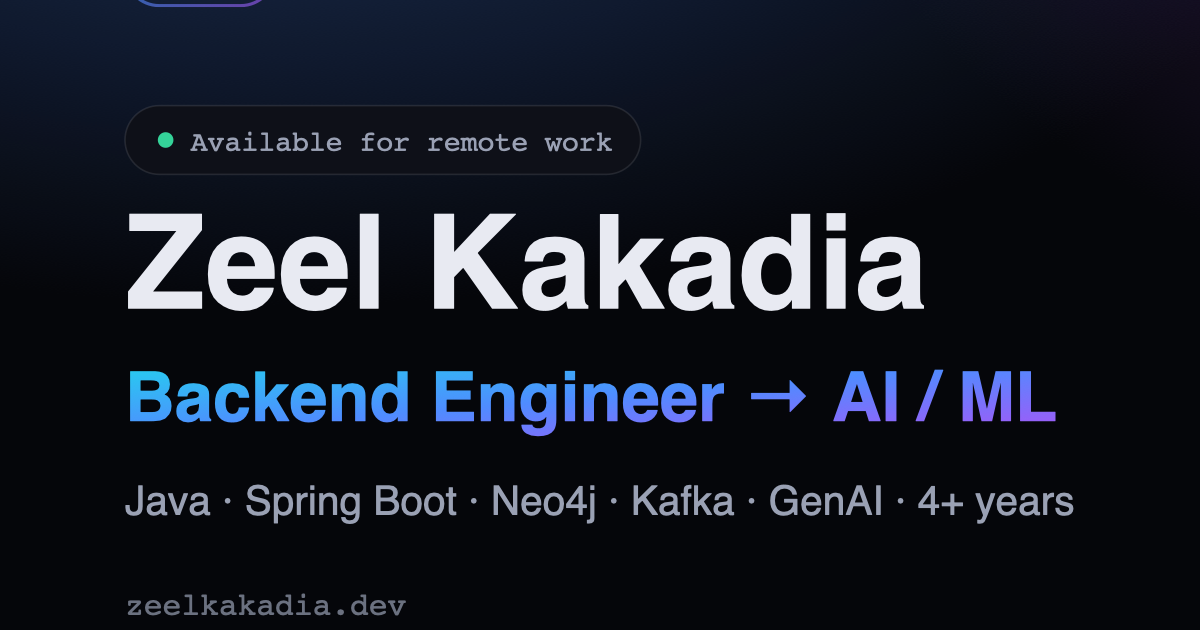
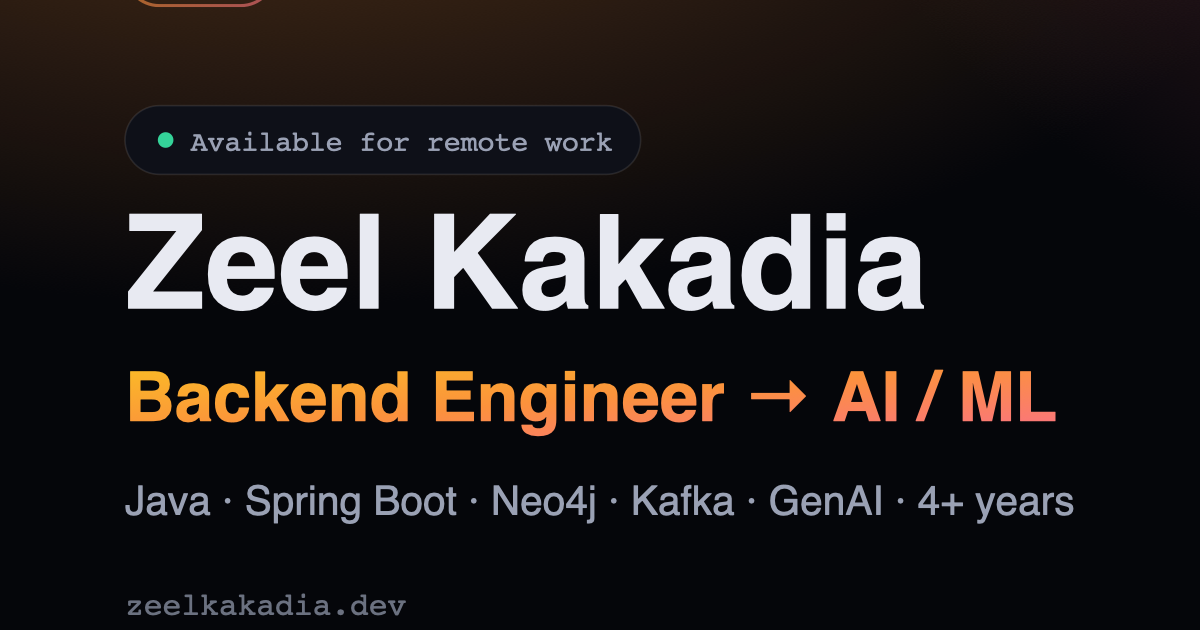
Re-skin to Ember theme (amber/orange/rose accents)

Changed region(s): [[0.0, 0.0, 0.6167, 0.1508], [0.0925, 0.573, 0.8942, 0.6937]]

diff --git a/src/styles/global.css b/src/styles/global.css
@@ -20,9 +20,9 @@
   --color-ink-800: #12151f;
 
   /* Neon accent (cyan -> violet) */
-  --color-accent-cyan: #22d3ee;
-  --color-accent-blue: #4f8cff;
-  --color-accent-violet: #a855f7;
+  --color-accent-cyan: #fbbf24;
+  --color-accent-blue: #fb923c;
+  --color-accent-violet: #fb7185;
 
   --color-fg: #e8eaf2;
   --color-fg-muted: #9aa1b4;
@@ -53,8 +53,8 @@ body {
   z-index: -1;
   pointer-events: none;
   background:
-    radial-gradient(60rem 40rem at 12% -10%, rgba(79, 140, 255, 0.10), transparent 60%),
-    radial-gradient(50rem 35rem at 100% 0%, rgba(168, 85, 247, 0.08), transparent 55%);
+    radial-gradient(60rem 40rem at 12% -10%, rgba(251, 146, 60, 0.10), transparent 60%),
+    radial-gradient(50rem 35rem at 100% 0%, rgba(251, 113, 133, 0.08), transparent 55%);
 }
 
 /* Subtle dot grid overlay */
@@ -90,7 +90,7 @@ body {
   }
   .glass-hover:hover {
     transform: translateY(-2px);
-    border-color: rgba(79, 140, 255, 0.28);
+    border-color: rgba(251, 146, 60, 0.28);
     background: rgba(255, 255, 255, 0.05);
   }
 
@@ -116,8 +116,8 @@ body {
   }
   .chip:hover {
     color: var(--color-fg);
-    border-color: rgba(34, 211, 238, 0.5);
-    background: rgba(34, 211, 238, 0.08);
+    border-color: rgba(251, 191, 36, 0.5);
+    background: rgba(251, 191, 36, 0.08);
   }
 
   .btn {
@@ -135,11 +135,11 @@ body {
   .btn-primary {
     color: #05060a;
     background: linear-gradient(100deg, var(--color-accent-cyan), var(--color-accent-blue) 55%, var(--color-accent-violet));
-    box-shadow: 0 8px 30px -8px rgba(79, 140, 255, 0.6);
+    box-shadow: 0 8px 30px -8px rgba(251, 146, 60, 0.6);
   }
   .btn-primary:hover {
     transform: translateY(-2px);
-    box-shadow: 0 12px 38px -8px rgba(79, 140, 255, 0.75);
+    box-shadow: 0 12px 38px -8px rgba(251, 146, 60, 0.75);
   }
   .btn-ghost {
     color: var(--color-fg);
@@ -207,7 +207,7 @@ body {
   border-radius: inherit;
   opacity: 0;
   transition: opacity 0.25s ease;
-  background: radial-gradient(210px circle at var(--mx, 50%) var(--my, 50%), rgba(56, 189, 248, 0.14), transparent 62%);
+  background: radial-gradient(210px circle at var(--mx, 50%) var(--my, 50%), rgba(251, 191, 36, 0.14), transparent 62%);
   pointer-events: none;
 }
 .spotlight:hover::before {
@@ -232,8 +232,8 @@ body {
 .tech-pill:hover {
   animation-play-state: paused;
   color: var(--color-fg);
-  border-color: rgba(34, 211, 238, 0.55);
-  background: rgba(34, 211, 238, 0.08);
+  border-color: rgba(251, 191, 36, 0.55);
+  background: rgba(251, 191, 36, 0.08);
 }
 @keyframes pillWave {
   0%, 100% {
@@ -242,9 +242,9 @@ body {
     box-shadow: none;
   }
   50% {
-    border-color: rgba(34, 211, 238, 0.4);
+    border-color: rgba(251, 191, 36, 0.4);
     color: var(--color-fg);
-    box-shadow: 0 0 16px -6px rgba(34, 211, 238, 0.55);
+    box-shadow: 0 0 16px -6px rgba(251, 191, 36, 0.55);
   }
 }
 
@@ -261,7 +261,7 @@ body {
 }
 .g-sat.is-active {
   fill: url(#hub);
-  stroke: #67e8f9;
+  stroke: #fcd34d;
   r: 10;
 }
 .g-label {
@@ -269,7 +269,7 @@ body {
   transition: fill 0.4s ease;
 }
 .g-label.is-active {
-  fill: #67e8f9;
+  fill: #fcd34d;
   font-weight: 700;
 }
 
